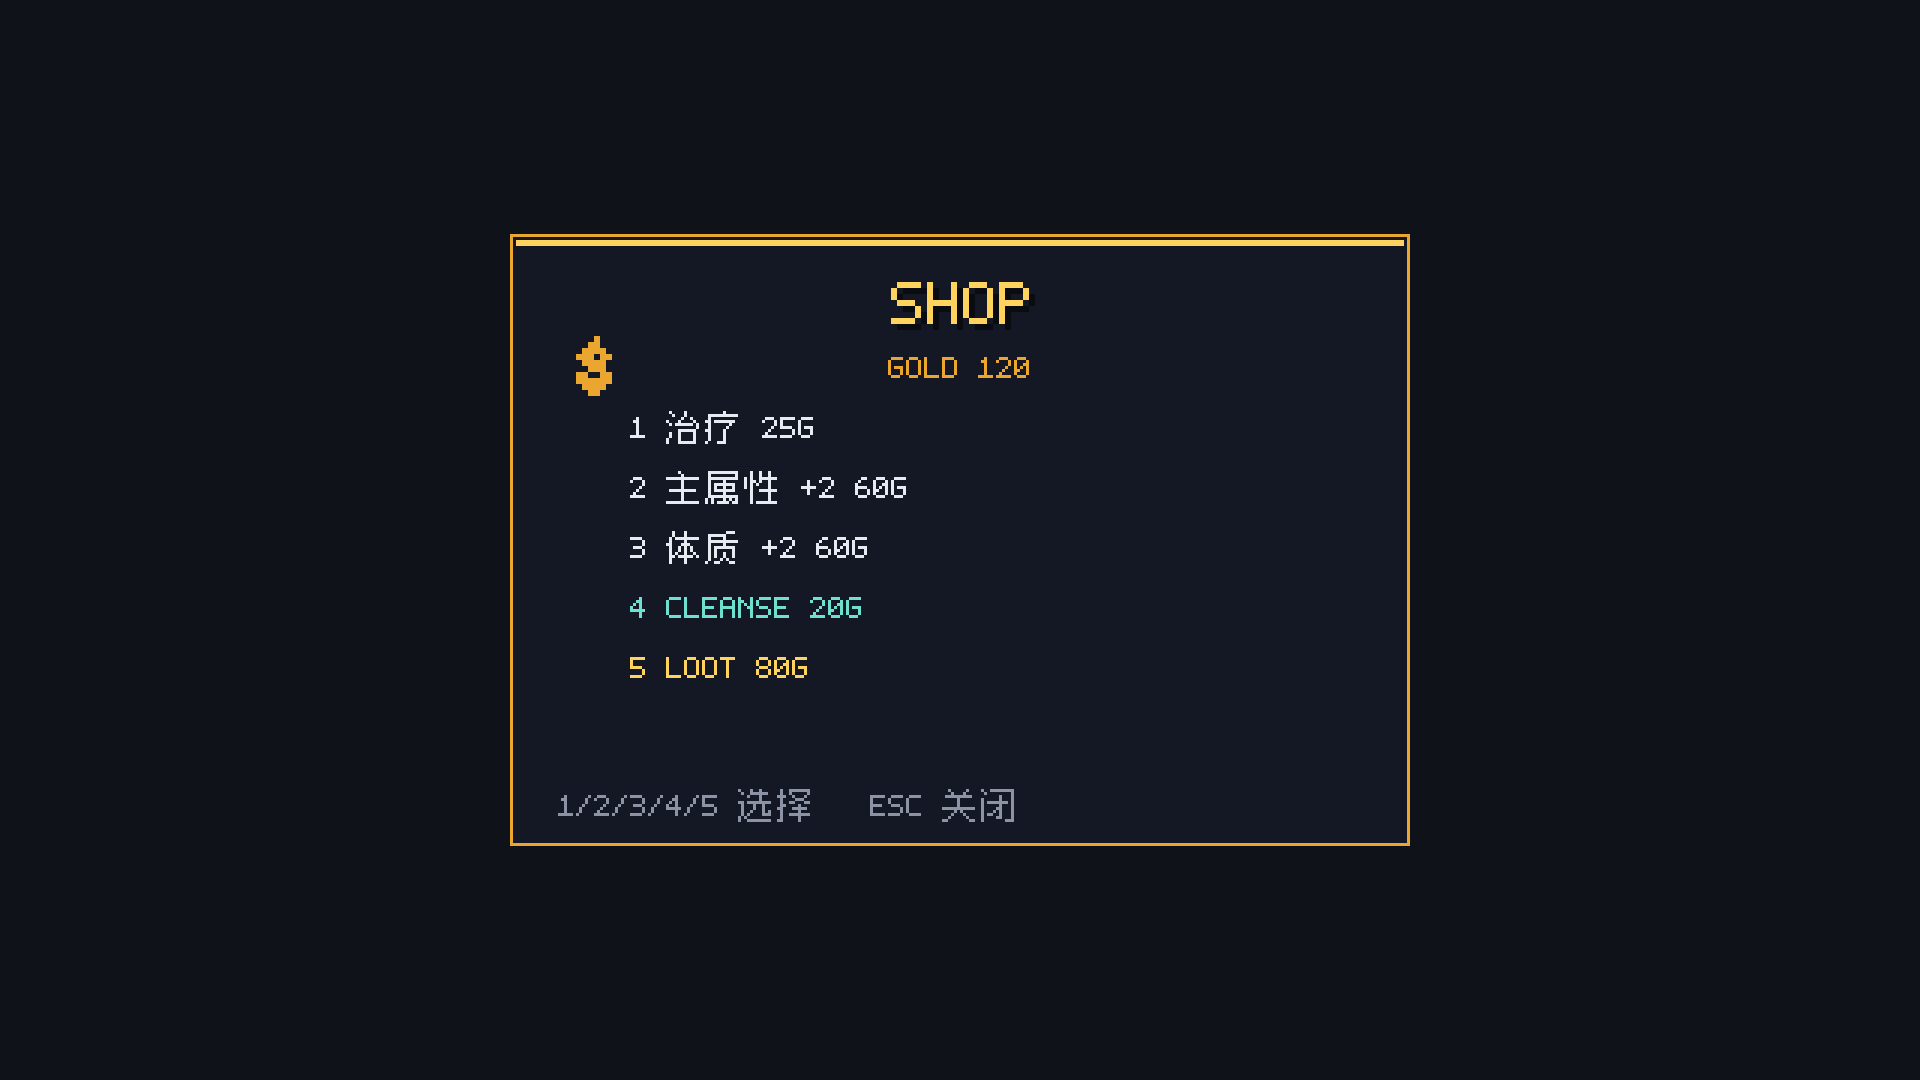
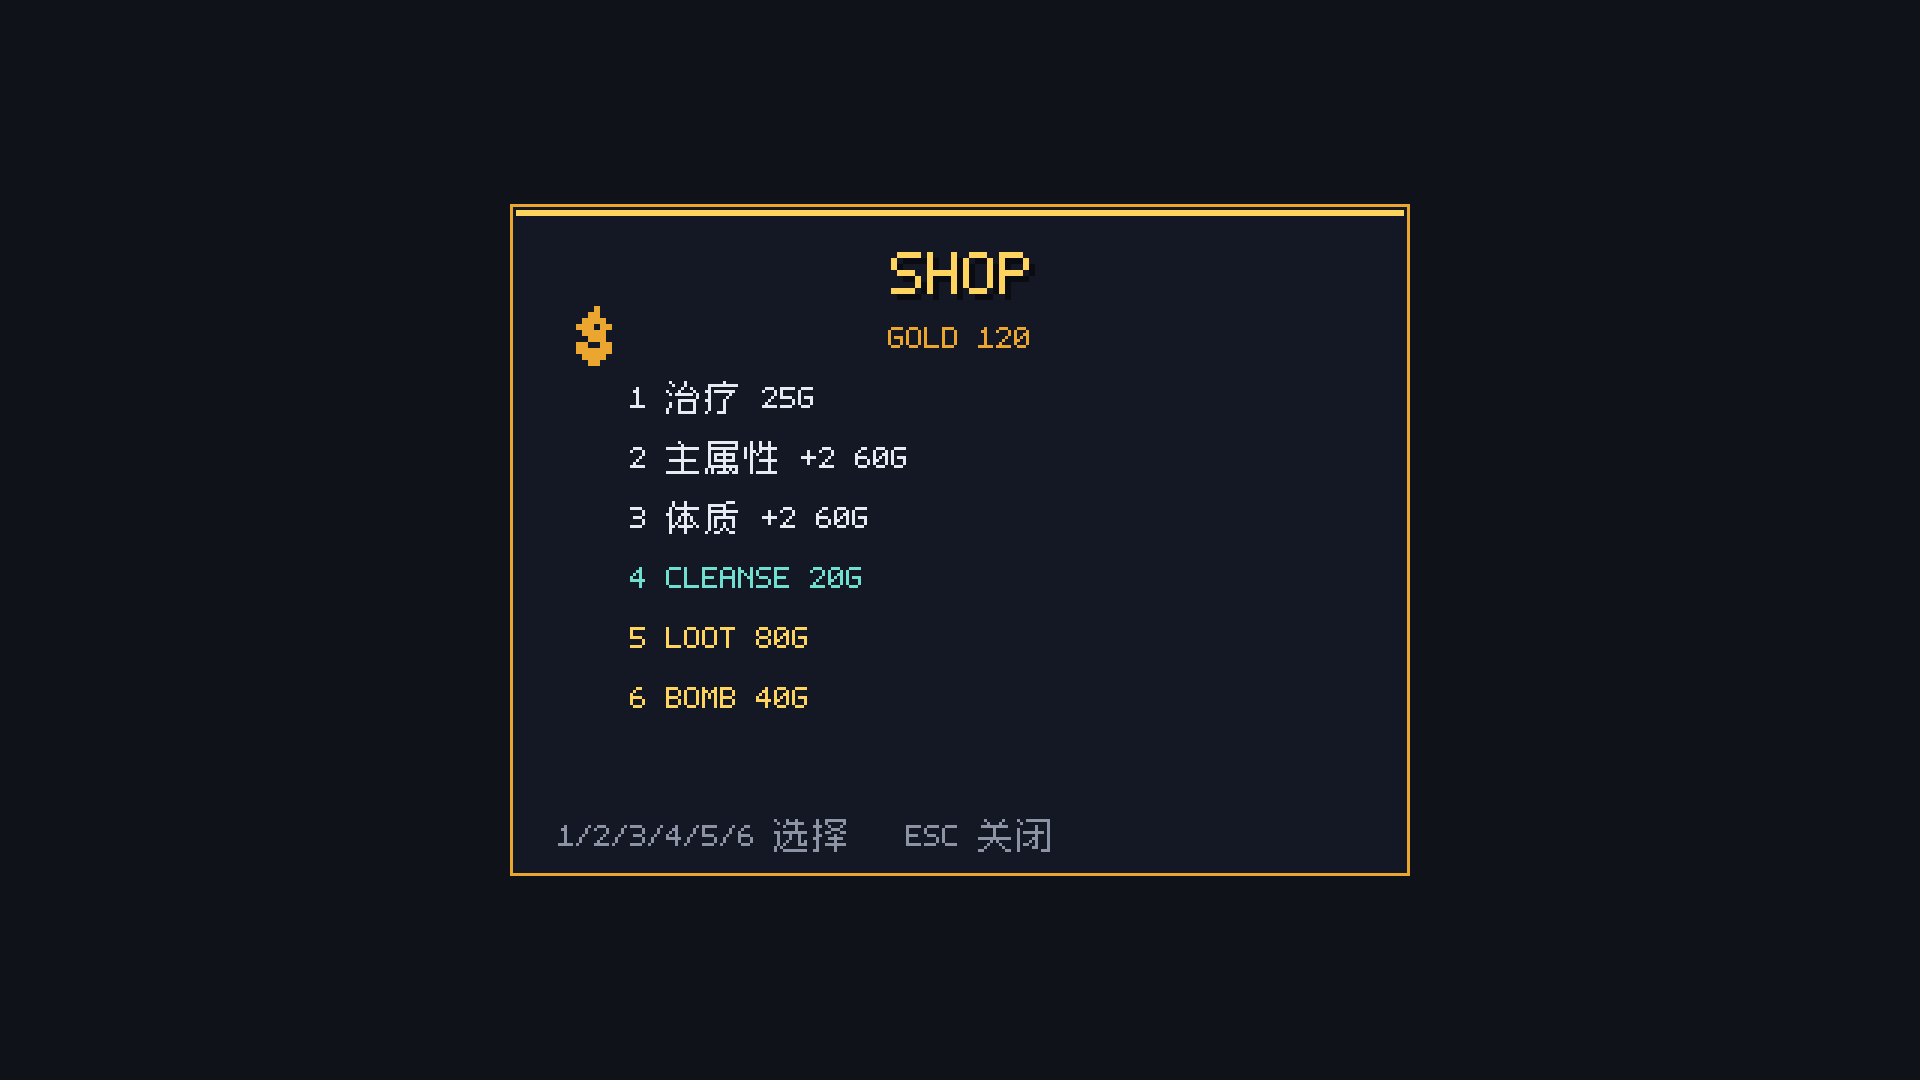
feat: shop bomb refill

Changed region(s): [[0.25, 0.1833, 0.75, 0.3667], [0.2812, 0.275, 0.4688, 0.6722], [0.2812, 0.7333, 0.5625, 0.7944]]

diff --git a/docs/MECHANISMS.md b/docs/MECHANISMS.md
@@ -263,8 +263,9 @@ raw
 
 已落地契约（金币/补给站，M8）：
 
-- 输入：击杀、普通宝箱、诅咒宝箱发金币；玩家在 SHOP 面板选择 1-5。
+- 输入：击杀、普通宝箱、诅咒宝箱发金币；玩家在 SHOP 面板选择 1-6。
 - 状态：gold、shop、shop_active、shop_used；每层一个 SHOP，购买一次后消失。
+- BOMB 补给：40G，Sim 只扣款并置 shop_used，Game 负责把 fire_bomb 放入背包。
 - 结算：治疗/主属性/体质/净化由 Sim.useShop 结算；LOOT 只扣款并置 shop_used，物品 roll 留在 RunGame/内容层。
 - 边界：金币不是经验，不触发升级；商店不写 M9 楼层胜负；存档保存 gold/shop/shop_used。
 - 不做：定向商品库存、价格随楼层浮动。

diff --git a/docs/store/PAGE.md b/docs/store/PAGE.md
@@ -58,7 +58,7 @@ Loot is automatic and build-defining: weapons, armor, trinkets and consumables f
 - Three procedurally generated floors with bosses, shrines, shops, chests and traps.
 - Seed-based runs, deterministic combat, visible enemy intents.
 - Automatic equipment plus a small inventory; build through loot, not menus.
-- A starting fire bomb (B) gives every class a one-use area answer.
+- A starting fire bomb (B) gives every class a one-use area answer; shops refill it for 40 gold.
 - Elite affixes that change target priority: SWIFT / ARMORED / VAMPIRIC / VOLATILE / FROST / SPLIT.
 - Rotatable top-down camera, pixel-art software renderer, integer scaling.
 - Controller support (including A/B swap), keyboard and mouse.
